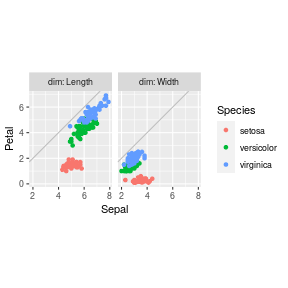
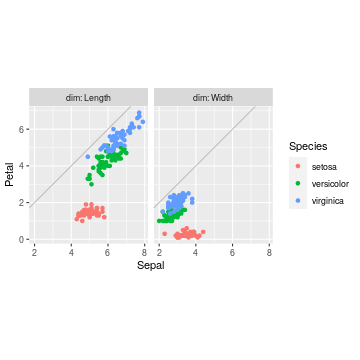
bigger figs

diff --git a/_posts/2021-05-28-data-reshape-viz-update.md b/_posts/2021-05-28-data-reshape-viz-update.md
@@ -767,7 +767,10 @@ in R. In particular we observed the following:
   they allow defining the capture group names and sub-patterns
   together in the regex string literal. This is an advantage over R
   tidyr, which does not support named groups because it uses the ICU C
-  regex library (does not export of group names to R).
+  regex library (does not export of group names to R). Even better (in
+  terms of keeping related information together) is the R nc syntax,
+  which allows defining a list for each capture group that contains:
+  (1) group name, (2) regex pattern, and (3) type conversion function.
 * Named capture groups can not be easily used for reshape to multiple
   output columns. This is because `pivot_longer` outputs multiple
   value columns when `names_to=".value"` is specified, but `.value`
